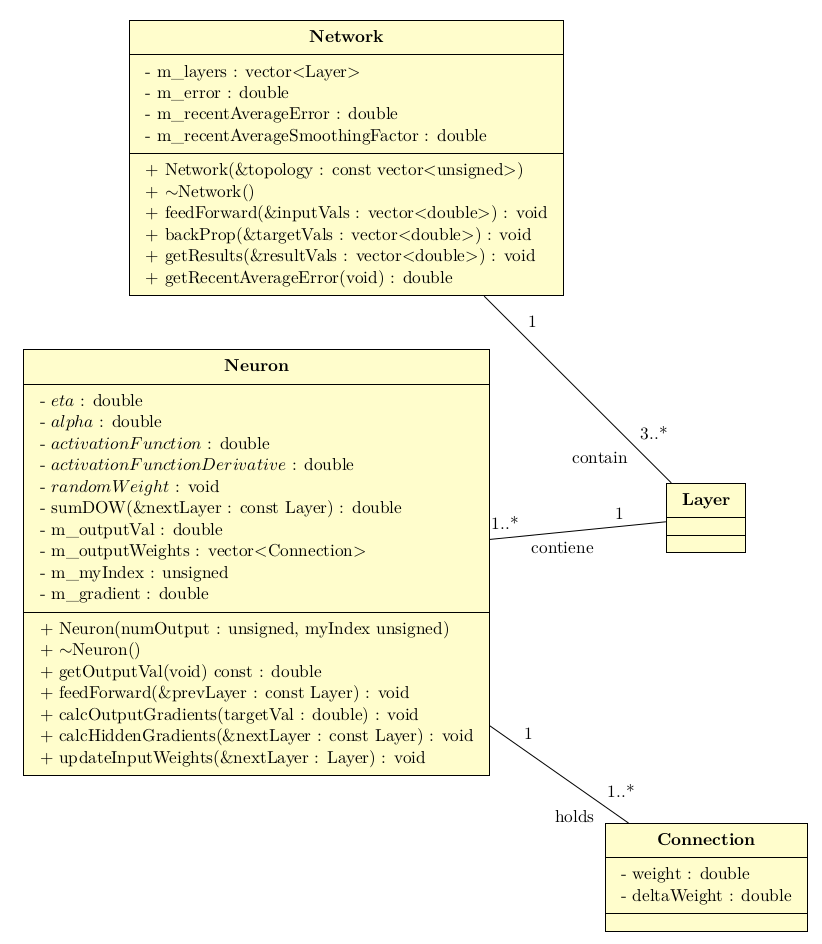
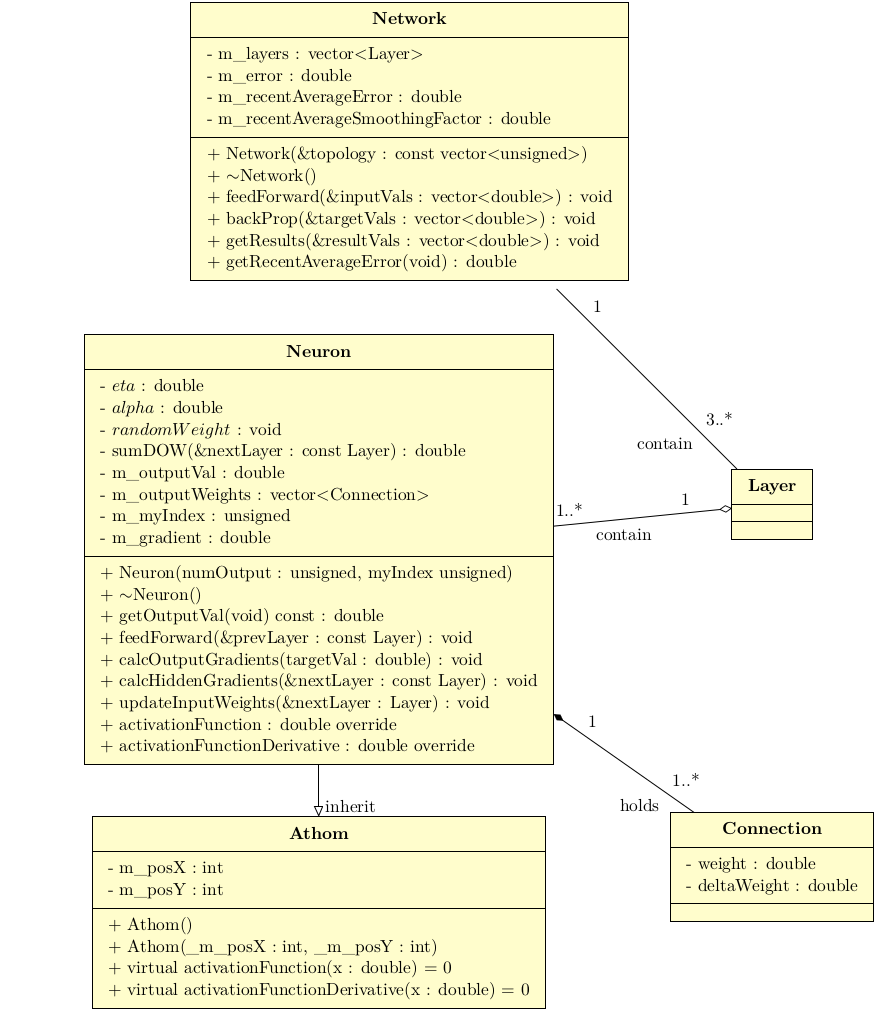
updated class diagram

diff --git a/latex/nn.tex b/latex/nn.tex
@@ -67,8 +67,6 @@
 \umlclass[width=15ex, x = -4, y = -9]{Neuron} {
 - $eta$ : double\\
 - $alpha$ : double\\
-- $activationFunction$ : double\\
-- $activationFunctionDerivative$ : double\\
 - $randomWeight$ : void\\
 - sumDOW(\&nextLayer : const Layer) : double\\
 - m\_outputVal : double\\
@@ -83,7 +81,21 @@
 + feedForward(\&prevLayer : const Layer) : void\\
 + calcOutputGradients(targetVal : double) : void\\
 + calcHiddenGradients(\&nextLayer : const Layer) : void\\
-+ updateInputWeights(\&nextLayer : Layer) : void
++ updateInputWeights(\&nextLayer : Layer) : void\\
++ activationFunction : double override\\
++ activationFunctionDerivative : double override\\
+}
+
+
+\umlclass[width=15ex, x = -4, y = -17]{Athom}{
+- m\_posX : int\\
+- m\_posY : int
+} 
+{
++ Athom()\\
++ Athom(\_m\_posX : int, \_m\_posY : int)\\
++ virtual activationFunction(x : double) = 0\\
++ virtual activationFunctionDerivative(x : double) = 0\\
 }
 
 \umlclass[x= 6, y=-16, width=5ex]{Connection}{
@@ -94,8 +106,11 @@
 
 
 \umlaggreg [attr1=1|,attr2=3..*|contain]{Network}{Layer}
-\umlaggreg [attr1=|1,attr2=contiene|1..*]{Layer}{Neuron}
+\umlaggreg [attr1=|1,attr2=contain|1..*]{Layer}{Neuron}
 \umlcompo [attr1=1|,attr2=1..*|holds]{Neuron}{Connection}
+\umlinherit [attr1=|,attr2=inherit|]{Neuron}{Athom}
+
+umlinherit
 
 \end{tikzpicture}
 
